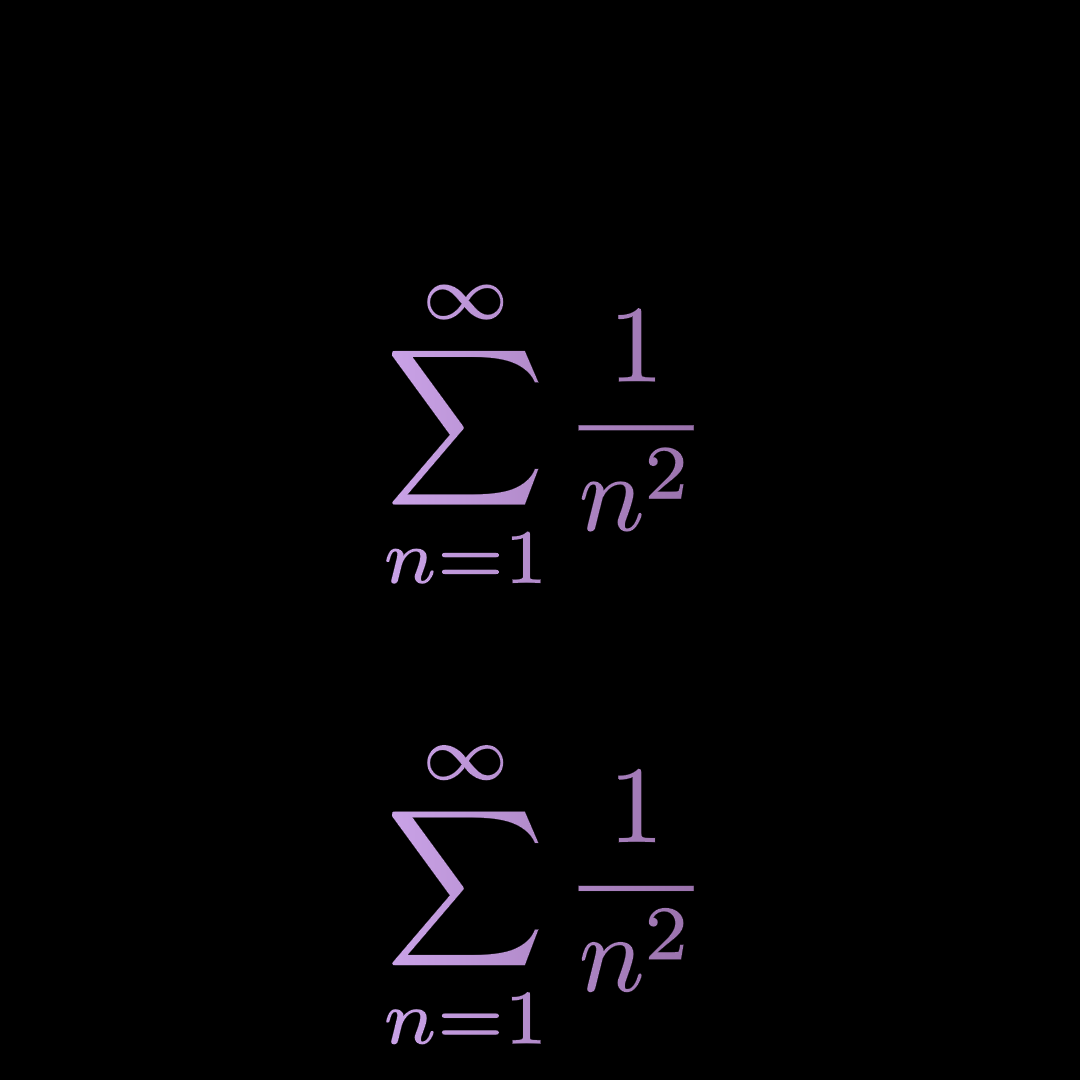
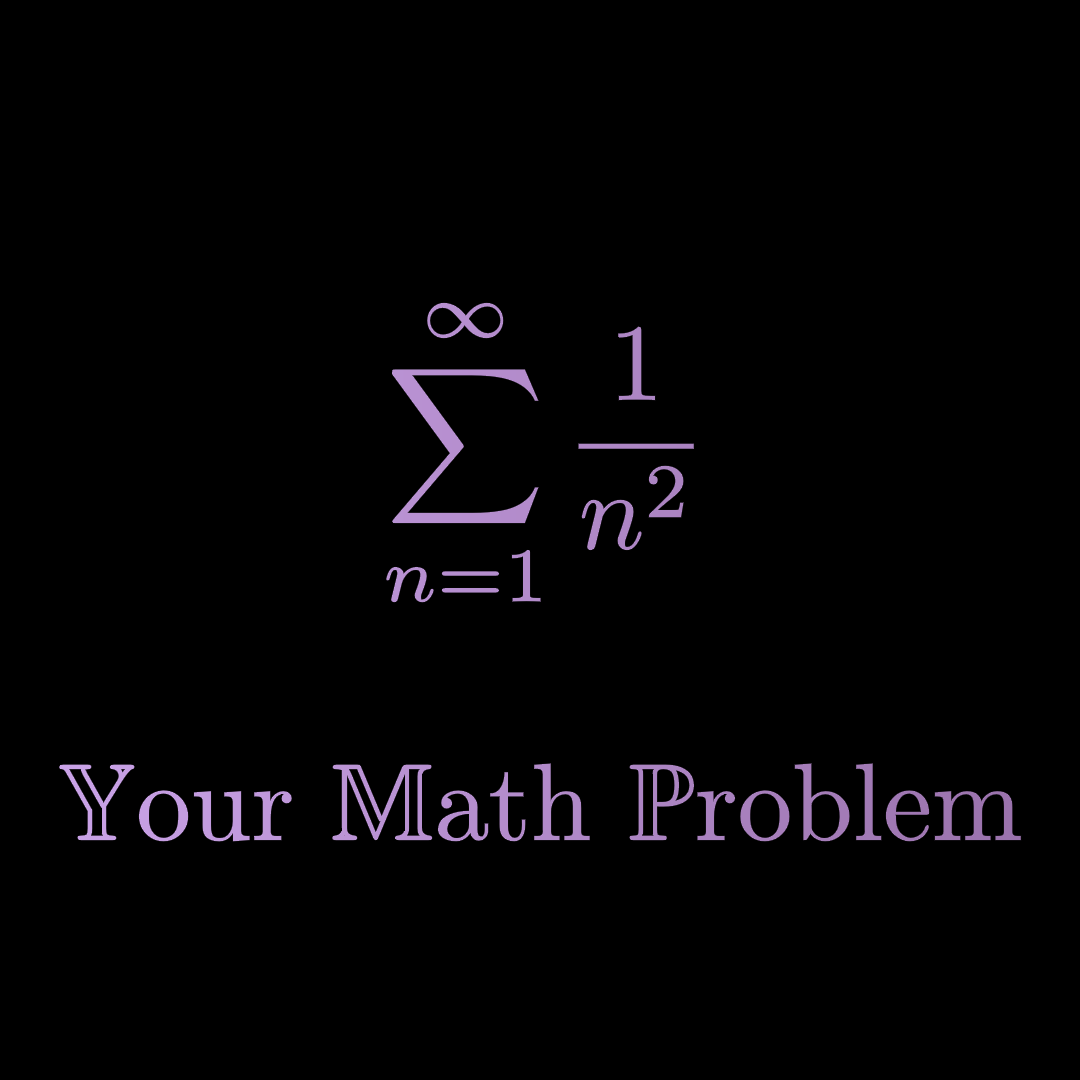
f

diff --git a/char.py b/char.py
@@ -3,8 +3,8 @@ from manimlib import *
 class YourInitial(InteractiveScene):
     def construct(self):
         color = [PURPLE_A, PURPLE_C]
-        title = TexText(R"$\mathbb{Y}our $\mathbb{I}$nitial$", font_size=67)
-        title2 = TexText(R"$\mathbb{Y}our $\mathbb{M}$ath $\mathbb{P}$roblem", font_size=67)
+        title = TexText(R"$\mathbb{Y}$our $\mathbb{I}$nitial$", font_size=67)
+        title2 = TexText(R"$\mathbb{Y}$our $\mathbb{M}$ath $\mathbb{P}$roblem", font_size=67)
 
         title.shift(0.5 * UP)
         title2.next_to(title, DOWN, buff=LARGE_BUFF)
